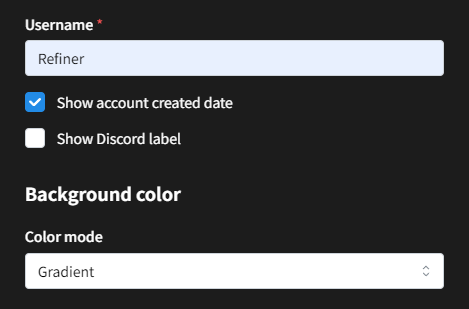
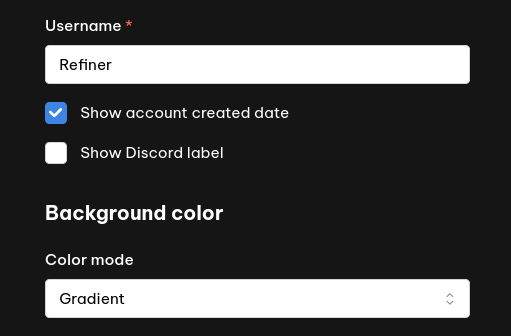
style: :art: font and ui change

diff --git a/src/components/LargeCard/index.tsx b/src/components/LargeCard/index.tsx
@@ -103,27 +103,27 @@ const LargeCard = () => {
           className={innerClasses.name}
         >
           <Box mb={15}>
-            <Title fw={600} size={titleSize} c={textColor}>
+            <Title fw={600} size={titleSize} c={textColor} ff="Noto Sans TC">
               {displayName}
             </Title>
-            <Title fw={500} mt={10} size={titleSize - 15} c={textColor}>
+            <Title fw={500} mt={10} size={titleSize - 15} c={textColor} ff="Noto Sans TC">
               {username}
             </Title>
             {pronouns && (
-              <Title fw={400} mt={15} size={25} c={textColor}>
+              <Title fw={400} mt={15} size={25} c={textColor} ff="Noto Sans TC">
                 {pronouns}
               </Title>
             )}
             {mood && (
-              <Title fw={400} mt={35} size={25} c={textColor}>
+              <Title fw={400} mt={35} size={25} c={textColor} ff="Noto Sans TC">
                 {mood}
               </Title>
             )}
           </Box>
-          {(aboutMe || createdDate) && <Divider w={687} mb={30} mt={30} />}
+          {(aboutMe || createdDate) && <Divider w={687} mb={30} mt={30} color="gray" />}
           {aboutMe && (
             <Box>
-              <Title size={20} c={textColor}>
+              <Title size={20} c={textColor} ff="Noto Sans TC">
                 ABOUT ME
               </Title>
               <Text c={textColor} lineClamp={5} className={innerClasses.aboutMe}>
@@ -133,10 +133,16 @@ const LargeCard = () => {
           )}
           {createdDate && (
             <Box>
-              <Title mt={30} size={20} c={textColor}>
+              <Title mt={30} size={20} c={textColor} ff="Noto Sans TC">
                 DISCORD MEMBER SINCE
               </Title>
-              <Text c={textColor} lineClamp={4} mt="sm" style={{ fontSize: '22px' }}>
+              <Text
+                c={textColor}
+                lineClamp={4}
+                mt="sm"
+                style={{ fontSize: '22px' }}
+                ff="Noto Sans TC"
+              >
                 {formatDate(createdDate)}
               </Text>
             </Box>

diff --git a/src/pages/Home/FAQs/index.tsx b/src/pages/Home/FAQs/index.tsx
@@ -1,4 +1,4 @@
-import { Accordion, Container, Grid, Image, Text, Title } from '@mantine/core';
+import { Accordion, Box, Grid, Image, Text, Title } from '@mantine/core';
 import { useMediaQuery } from '@mantine/hooks';
 import { Link } from 'react-router-dom';
 import classes from './index.module.css';
@@ -36,7 +36,7 @@ export default function FAQs() {
 
   return (
     <div className={classes.wrapper}>
-      <Container size="xl">
+      <Box maw={1280} mx="auto">
         <Grid id="faq-grid" gutter={50}>
           <Grid.Col span={{ base: 12, md: 5 }}>
             <Image
@@ -77,7 +77,7 @@ export default function FAQs() {
             </Accordion>
           </Grid.Col>
         </Grid>
-      </Container>
+      </Box>
     </div>
   );
 }

diff --git a/src/components/MainContent/Column2/index.tsx b/src/components/MainContent/Column2/index.tsx
@@ -297,12 +297,15 @@ const MainContentColumn2 = ({
             }}
           />
           <Textarea
+            styles={{ input: { fontFamily: 'Noto Sans TC' } }}
             label="About me"
             minRows={5}
             maxRows={5}
             autosize
             {...form.getInputProps('aboutMe')}
-            placeholder={'Write something about yourself.\nMax characters per line: 53'}
+            placeholder={
+              'Write something about yourself.\n\nMax characters per line: 53\nFont family: Noto Sans TC'
+            }
             onChange={(e) => {
               form.setValues({
                 ...form.values,

diff --git a/index.html b/index.html
@@ -7,7 +7,7 @@
     <link rel="preconnect" href="https://fonts.googleapis.com" />
     <link rel="preconnect" href="https://fonts.gstatic.com" crossorigin />
     <link
-      href="https://fonts.googleapis.com/css2?family=Noto+Sans+TC:wght@300;400;500;600;700&display=swap"
+      href="https://fonts.googleapis.com/css2?family=Be+Vietnam+Pro:ital,wght@0,100;0,200;0,300;0,400;0,500;0,600;0,700;0,800;0,900;1,100;1,200;1,300;1,400;1,500;1,600;1,700;1,800;1,900&family=Noto+Sans+TC:wght@100..900&display=swap"
       rel="stylesheet"
     />
     <link rel="canonical" href="https://disi.bennynguyen.dev" />

diff --git a/src/components/SmallCard/index.tsx b/src/components/SmallCard/index.tsx
@@ -105,6 +105,7 @@ const SmallCard = () => {
                   ? textColor
                   : '#5d5f6b'
               }
+              ff="Noto Sans TC"
             >
               {displayName}
             </Title>
@@ -132,6 +133,7 @@ const SmallCard = () => {
                     : '#5d5f6b'
                 }
                 fw={400}
+                ff="Noto Sans TC"
               >
                 {formatDate(createdDate)}
               </Title>

diff --git a/src/pages/Home/HowTo/index.tsx b/src/pages/Home/HowTo/index.tsx
@@ -19,7 +19,7 @@ export default function HowTo() {
         />
         <HowToCard
           image="images/showcase/disi-showcase-5.png"
-          main="3. Click the 'Generate' button and you are all set!"
+          main="3. Click the Generate button and you are all set!"
           description="The cards can be embedded in various formats, such as .png, .svg, Markdown, or HTML."
         />
       </Group>

diff --git a/src/components/LargeCard/index.module.css b/src/components/LargeCard/index.module.css
@@ -23,6 +23,7 @@
   border-radius: 5px;
   box-shadow: 0 0 10px 0px #00000050;
   transform: translate(548px, 30px);
+  font-family: 'Noto Sans TC', sans-serif;
 }
 
 .name {
@@ -42,6 +43,7 @@
   max-width: 700px;
   word-wrap: break-word;
   white-space: pre-line;
+  font-family: 'Noto Sans TC', sans-serif;
 }
 
 .discordLabel {

diff --git a/src/components/Header/index.tsx b/src/components/Header/index.tsx
@@ -3,7 +3,7 @@ import { useMediaQuery } from '@mantine/hooks';
 import { Link } from 'react-router-dom';
 
 const Header = () => {
-  const smallestHeader = useMediaQuery('(max-width: 400px)');
+  const smallestHeader = useMediaQuery('(max-width: 420px)');
 
   return (
     <Box

diff --git a/src/App.tsx b/src/App.tsx
@@ -49,7 +49,7 @@ export default function App() {
   return (
     <MantineProvider
       theme={createTheme({
-        fontFamily: 'Noto Sans TC, sans-serif',
+        fontFamily: 'Be Vietnam Pro',
         breakpoints: {
           smallHeader: '600px',
         },

diff --git a/src/env/env.ts b/src/env/env.ts
@@ -10,4 +10,4 @@ export const web = {
   prod: 'https://disi.bennynguyen.dev',
   dev: 'http://localhost:5173',
 };
-export const testing = false;
+export const testing = true;

diff --git a/src/components/Footer/index.module.css b/src/components/Footer/index.module.css
@@ -2,6 +2,7 @@
   margin-top: calc(var(--mantine-spacing-xl) * 2);
   background-color: #1a1a1a;
   border-top: 1px solid #333;
+  border-bottom: none;
 }
 
 .inner {
